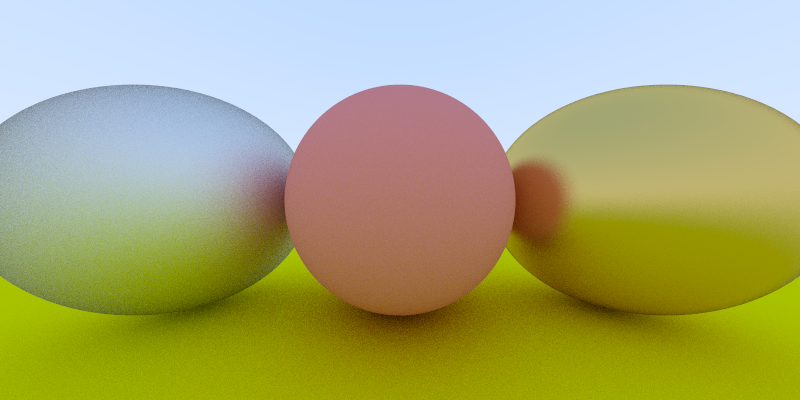
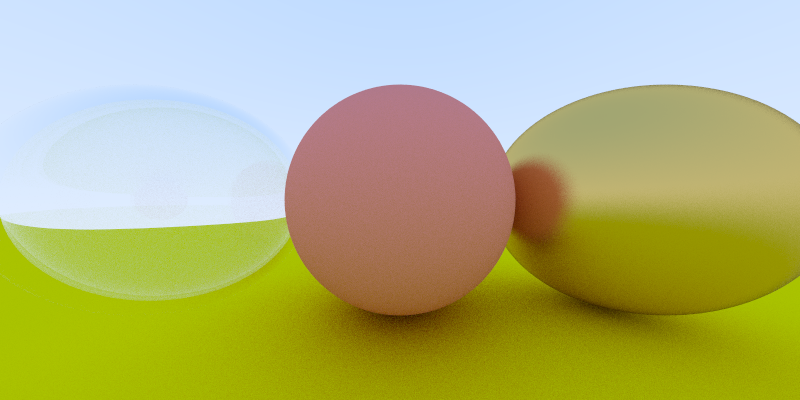
Chapter 9

Changed region(s): [[0.0, 0.21, 0.4688, 0.96]]

diff --git a/Program/Materials/Dielectric.cs b/Program/Materials/Dielectric.cs
@@ -1,0 +1,87 @@
+using System;
+using System.Collections.Generic;
+using System.Text;
+using Microsoft.Xna.Framework;
+using Program.Util;
+
+namespace Program.Materials
+{
+    public sealed class Dielectric : Material
+    {
+        private readonly float _refIndex;
+        private Vector3 _attenuation = new Vector3(1.0f, 1.0f, 1.0f);
+
+        public Dielectric(float refIndex)
+        {
+            _refIndex = refIndex;
+        }
+
+        public override bool Scatter(in Ray ray, in HitRecord record, ref Vector3 Attenuation, ref Ray scattered)
+        {
+            Vector3 outwardNormal;
+            Vector3 reflected = Vector3.Reflect(ray.Direction, record.Normal);
+            float niOverNt;
+            Vector3 refracted = new Vector3();
+            _attenuation.CopyTo(ref Attenuation);
+            float reflectProbe;
+            float cosine;
+
+            if(Vector3.Dot(ray.Direction, record.Normal) > 0)
+            {
+                outwardNormal = -record.Normal;
+                niOverNt = _refIndex;
+                cosine = _refIndex * Vector3.Dot(ray.Direction, record.Normal) / ray.Direction.Length();
+            }
+            else
+            {
+                outwardNormal = record.Normal;
+                niOverNt = 1.0f / _refIndex;
+                cosine = -Vector3.Dot(ray.Direction, record.Normal) / ray.Direction.Length();
+            }
+
+            if(Refract(ray.Direction, ref outwardNormal, niOverNt, ref refracted))
+            {
+                reflectProbe = Schlick(cosine, _refIndex);
+            }
+            else
+            {
+                reflectProbe = 1.0f;
+            }
+
+            if(XorShiftRandom.NextFloat() < reflectProbe)
+            {
+                scattered = new Ray(record.P, reflected);
+            }
+            else
+            {
+                scattered = new Ray(record.P, refracted);
+            }
+
+            return true;
+        }
+
+        private bool Refract(Vector3 vector, ref Vector3 normal, float niOverNt, ref Vector3 refracted)
+        {
+            Vector3 uv = Vector3.Normalize(vector);
+            float dt = Vector3.Dot(uv, normal);
+            float discriminant = 1.0f - niOverNt * niOverNt * (1 - dt * dt);
+
+            if(discriminant > 0)
+            {
+                refracted = niOverNt * (uv - normal * dt) - normal * MathUtil.FastSqrt(discriminant);
+                return true;
+            }
+            else
+            {
+                return false;
+            }
+        }
+
+        private float Schlick(float cosine, float refIndex)
+        {
+            float r0 = (1 - refIndex) / (1 + refIndex);
+            r0 *= r0;
+            return (float)(r0 + (1 - r0) * (Math.Pow(1 - cosine, 5)));
+        }
+    }
+}

diff --git a/Program/RayTracer.cs b/Program/RayTracer.cs
@@ -14,15 +14,7 @@ namespace Program
         // TODO: create some sort of entity manager or scene graph later on
         private readonly HitableList World;
 
-        public static XorShiftRandom rand;
-
-        // Prime target for refactor
         private readonly RendererConfiguration renderConfig;
-
-        static RayTracer()
-        {
-            rand = new XorShiftRandom();
-        }
 
         public RayTracer(RendererConfiguration renderConfig)
         {
@@ -39,7 +31,8 @@ namespace Program
             new Sphere(new Vector3(0f, 0f, -1f), 0.5f, new Lambertian(new Vector3(0.8f, 0.3f, 0.3f))),
             new Sphere(new Vector3(0f, -100.5f, 1f), 100, new Lambertian(new Vector3(0.8f, 0.8f, 0.0f))),
             new Sphere(new Vector3(1f, 0f, -1f), 0.5f, new Metal(new Vector3(0.8f, 0.6f, 0.2f), 0.3f)),
-            new Sphere(new Vector3(-1f, 0f, -1f), 0.5f, new Metal(new Vector3(0.8f, 0.8f, 0.8f), 1.0f)),
+            new Sphere(new Vector3(-1f, 0f, -1f), 0.5f, new Dielectric(1.5f)),
+            new Sphere(new Vector3(-1f, 0f, -1f), -0.45f, new Dielectric(1.5f)),
             };
 
             World = new HitableList(objectList);
@@ -63,8 +56,8 @@ namespace Program
 
                         for(int i = 0; i < renderConfig.AASamples; i++)
                         {
-                            float u = (float)(x + rand.NextDouble()) / renderConfig.Width;
-                            float v = (float)(y + rand.NextDouble()) / renderConfig.Height;
+                            float u = (x + XorShiftRandom.NextFloat()) / renderConfig.Width;
+                            float v = (y + XorShiftRandom.NextFloat()) / renderConfig.Height;
 
                             color += PixelColor(camera.GetRay(u, v), World, 0);
                         }
@@ -132,7 +125,7 @@ namespace Program
 
             do
             {
-                p = 2.0f * new Vector3(rand.NextFloat(), rand.NextFloat(), rand.NextFloat()) - Vector3.One;
+                p = 2.0f * new Vector3(XorShiftRandom.NextFloat(), XorShiftRandom.NextFloat(), XorShiftRandom.NextFloat()) - Vector3.One;
             } while(p.LengthSquared() >= 1);
 
             return p;

diff --git a/Program/Util/XorShiftRandom.cs b/Program/Util/XorShiftRandom.cs
@@ -5,12 +5,12 @@ namespace Program.Util
     /// <summary>
     /// Taken from http://codingha.us/2018/12/17/xorshift-fast-csharp-random-number-generator/
     /// </summary>
-    public class XorShiftRandom
+    public static class XorShiftRandom
     {
-        private ulong x_;
-        private ulong y_;
+        private static ulong x_;
+        private static ulong y_;
 
-        public XorShiftRandom()
+        static XorShiftRandom()
         {
             x_ = (ulong)Guid.NewGuid().GetHashCode();
             y_ = (ulong)Guid.NewGuid().GetHashCode();
@@ -18,12 +18,12 @@ namespace Program.Util
 
         private const double DOUBLE_UNIT = 1.0 / (int.MaxValue + 1.0);
 
-        public float NextFloat()
+        public static float NextFloat()
         {
             return (float)NextDouble();
         }
 
-        public double NextDouble()
+        public static double NextDouble()
         {
             double _;
             ulong temp_x, temp_y, temp_z;
@@ -41,7 +41,7 @@ namespace Program.Util
             return _;
         }
 
-        public int NextInt32()
+        public static int NextInt32()
         {
             int _;
             ulong temp_x, temp_y;

diff --git a/Program/Engine.cs b/Program/Engine.cs
@@ -1,4 +1,5 @@
-using Microsoft.Xna.Framework;
+using System.IO;
+using Microsoft.Xna.Framework;
 using Microsoft.Xna.Framework.Graphics;
 using Microsoft.Xna.Framework.Input;
 
@@ -35,7 +36,7 @@ namespace Program
         protected override void Initialize()
         {
             _renderConfig.Antialiasing = true;
-            _renderConfig.AASamples = 8;
+            _renderConfig.AASamples = 100;
             _spriteBatch = new SpriteBatch(GraphicsDevice);
             _gui = new GUI(_spriteBatch, _renderConfig.Width, _renderConfig.Height);
             _tracer = new RayTracer(_renderConfig);
@@ -66,6 +67,9 @@ namespace Program
             GraphicsDevice.Clear(Color.White);
 
             _frameBuffer.SetData(_tracer.NextFrame());
+            _frameBuffer.SaveAsPng(File.OpenWrite("CurrentProgress.png"), 800, 400);
+
+            _spriteBatch.Begin();
             _spriteBatch.Draw(_frameBuffer, new Vector2(0, 0), Color.White);
             _gui.DrawFPS(gameTime);
             _spriteBatch.End();

diff --git a/Program/Materials/Metal.cs b/Program/Materials/Metal.cs
@@ -4,7 +4,7 @@ using Program.Util;
 
 namespace Program.Materials
 {
-    public class Metal : Material
+    public sealed class Metal : Material
     {
         private readonly Vector3 _albeido;
         private readonly float _fuzz;
